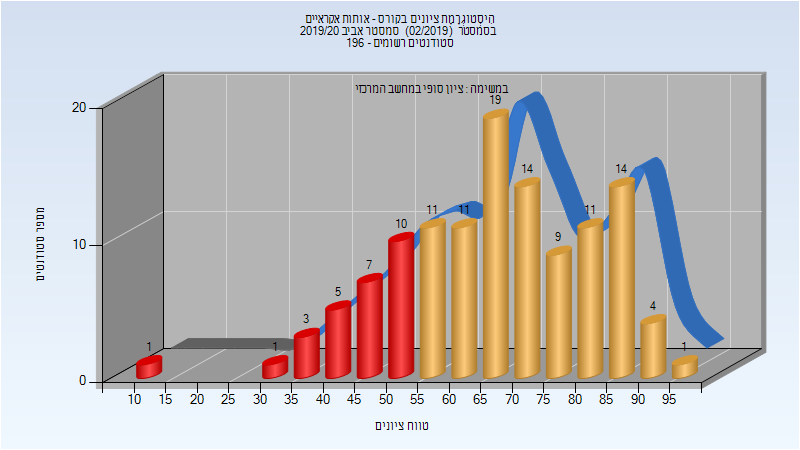
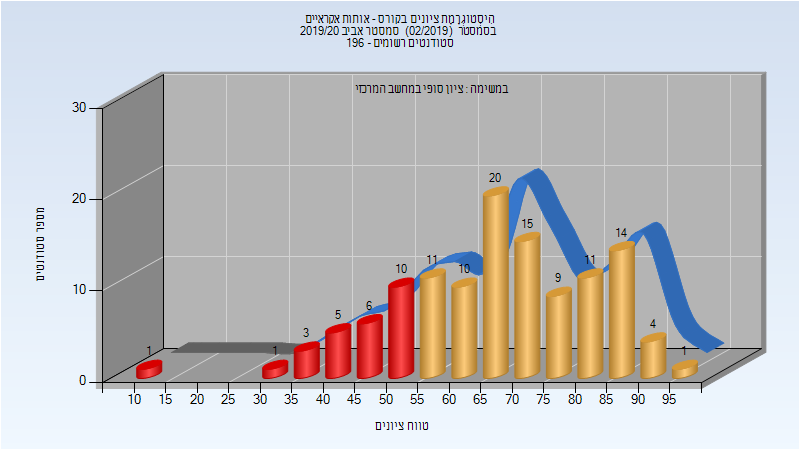
Deploy michael-maltsev/technion-histograms to github.com/michael-maltsev/technion-histograms.git:gh-pages

diff --git a/044202/index.html b/044202/index.html
@@ -1522,12 +1522,12 @@
 <tbody>
 <tr>
 <td>121</td>
-<td>94/27</td>
-<td>78</td>
+<td>95/26</td>
+<td>79</td>
 <td>14</td>
 <td>99</td>
-<td>66.926</td>
-<td>67</td>
+<td>67.174</td>
+<td>68</td>
 </tr>
 </tbody>
 </table>

diff --git a/044202/README.md b/044202/README.md
@@ -473,5 +473,5 @@
 
 | סטודנטים | עברו/נכשלו | אחוז עוברים | ציון מינימלי | ציון מקסימלי | ממוצע | חציון |
 | ---- | ---- | ---- | ---- | ---- | ---- | ---- |
-| 121 | 94/27 | 78 | 14 | 99 | 66.926 | 67 |
+| 121 | 95/26 | 79 | 14 | 99 | 67.174 | 68 |
 
